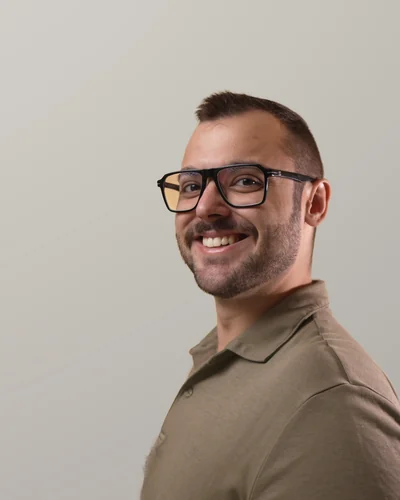
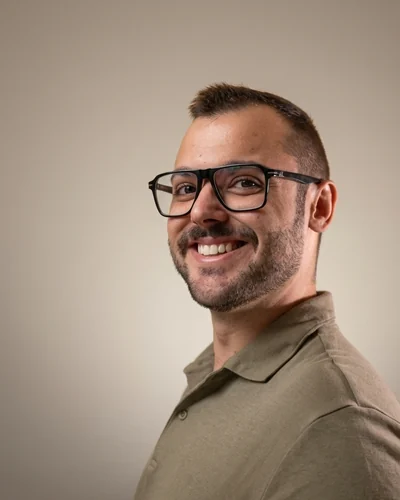
Los retratos que Adrián editó con Gemini
Sustituyen a los de fondo compuesto. Cinco fotos, una por página, con el
mismo criterio de recorte de siempre: eje en la cara detectada y línea de
los ojos a la misma altura en las cinco.

El orden está elegido para que dos páginas seguidas no lleven la misma
ropa ni la misma pose. El fondo varía un poco entre tomas —van de un
beige claro a uno más tostado— y no importa: nunca se ven dos a la vez.
El color de reserva del hueco de la foto se ajusta a ese beige para que
no haya salto mientras carga.

La tarjeta de redes se rehace con la nueva.

Claude-Session: https://claude.ai/code/session_011wHfbJqYP4QLNR9sNwPVRj

diff --git a/privacidad.html b/privacidad.html
@@ -45,7 +45,7 @@
   <link rel="preload" as="font" type="font/woff2" crossorigin
         href="/fuentes/source-sans-3-latin-400-normal.woff2">
 
-  <link rel="stylesheet" href="estilos.css?v=15">
+  <link rel="stylesheet" href="estilos.css?v=16">
   <style>
     /* Las páginas legales se leen, no se escanean: texto algo más
        pequeño, líneas más cortas y títulos de apartado discretos. */

diff --git a/aviso-legal.html b/aviso-legal.html
@@ -50,7 +50,7 @@
   <link rel="preload" as="font" type="font/woff2" crossorigin
         href="/fuentes/source-sans-3-latin-400-normal.woff2">
 
-  <link rel="stylesheet" href="estilos.css?v=15">
+  <link rel="stylesheet" href="estilos.css?v=16">
   <style>
     .legal p, .legal li{font-size:16px;color:var(--ink-2);max-width:66ch}
     .legal h2{font-size:1.18rem;margin-top:32px}

diff --git a/cookies.html b/cookies.html
@@ -48,7 +48,7 @@
   <link rel="preload" as="font" type="font/woff2" crossorigin
         href="/fuentes/source-sans-3-latin-400-normal.woff2">
 
-  <link rel="stylesheet" href="estilos.css?v=15">
+  <link rel="stylesheet" href="estilos.css?v=16">
   <style>
     .legal p, .legal li{font-size:16px;color:var(--ink-2);max-width:66ch}
     .legal h2{font-size:1.18rem;margin-top:32px}

diff --git a/estilos.css b/estilos.css
@@ -961,7 +961,7 @@ a.tarjeta:hover .mas{color:var(--accent-3);text-decoration:underline;text-underl
   box-shadow:var(--shadow);
   /* Fondo por si la imagen tarda: evita el salto de blanco a foto. Es el
      mismo gris del fondo de las fotos, así que ni siquiera se nota. */
-  background:#C7C3BC;
+  background:#A9A194;
 }
 .retrato.grande{width:230px}
 

diff --git a/mapa/index.html b/mapa/index.html
@@ -54,7 +54,7 @@
   <link rel="preload" as="font" type="font/woff2" crossorigin
         href="/fuentes/source-sans-3-latin-400-normal.woff2">
 
-  <link rel="stylesheet" href="../estilos.css?v=15">
+  <link rel="stylesheet" href="../estilos.css?v=16">
 
   <style>
   /* Estilos que solo existen en esta página. Todo lo compartido

diff --git a/areas/ansiedad/index.html b/areas/ansiedad/index.html
@@ -47,7 +47,7 @@
   <link rel="preload" as="font" type="font/woff2" crossorigin
         href="/fuentes/source-sans-3-latin-400-normal.woff2">
 
-  <link rel="stylesheet" href="/estilos.css?v=15">
+  <link rel="stylesheet" href="/estilos.css?v=16">
   <script type="application/ld+json">
 {
   "@context": "https://schema.org",

diff --git a/areas/autoestima/index.html b/areas/autoestima/index.html
@@ -47,7 +47,7 @@
   <link rel="preload" as="font" type="font/woff2" crossorigin
         href="/fuentes/source-sans-3-latin-400-normal.woff2">
 
-  <link rel="stylesheet" href="/estilos.css?v=15">
+  <link rel="stylesheet" href="/estilos.css?v=16">
   <script type="application/ld+json">
 {
   "@context": "https://schema.org",

diff --git a/areas/estado-de-animo/index.html b/areas/estado-de-animo/index.html
@@ -47,7 +47,7 @@
   <link rel="preload" as="font" type="font/woff2" crossorigin
         href="/fuentes/source-sans-3-latin-400-normal.woff2">
 
-  <link rel="stylesheet" href="/estilos.css?v=15">
+  <link rel="stylesheet" href="/estilos.css?v=16">
   <script type="application/ld+json">
 {
   "@context": "https://schema.org",

diff --git a/areas/index.html b/areas/index.html
@@ -47,7 +47,7 @@
   <link rel="preload" as="font" type="font/woff2" crossorigin
         href="/fuentes/source-sans-3-latin-400-normal.woff2">
 
-  <link rel="stylesheet" href="/estilos.css?v=15">
+  <link rel="stylesheet" href="/estilos.css?v=16">
   <script type="application/ld+json">
 {
   "@context": "https://schema.org",

diff --git a/areas/procrastinacion/index.html b/areas/procrastinacion/index.html
@@ -47,7 +47,7 @@
   <link rel="preload" as="font" type="font/woff2" crossorigin
         href="/fuentes/source-sans-3-latin-400-normal.woff2">
 
-  <link rel="stylesheet" href="/estilos.css?v=15">
+  <link rel="stylesheet" href="/estilos.css?v=16">
   <script type="application/ld+json">
 {
   "@context": "https://schema.org",

diff --git a/blog/cuando-dejar-de-hacerlo-solo/index.html b/blog/cuando-dejar-de-hacerlo-solo/index.html
@@ -47,7 +47,7 @@
   <link rel="preload" as="font" type="font/woff2" crossorigin
         href="/fuentes/source-sans-3-latin-400-normal.woff2">
 
-  <link rel="stylesheet" href="/estilos.css?v=15">
+  <link rel="stylesheet" href="/estilos.css?v=16">
   <script type="application/ld+json">
 {
   "@context": "https://schema.org",

diff --git a/blog/cuando-este-listo/index.html b/blog/cuando-este-listo/index.html
@@ -47,7 +47,7 @@
   <link rel="preload" as="font" type="font/woff2" crossorigin
         href="/fuentes/source-sans-3-latin-400-normal.woff2">
 
-  <link rel="stylesheet" href="/estilos.css?v=15">
+  <link rel="stylesheet" href="/estilos.css?v=16">
   <script type="application/ld+json">
 {
   "@context": "https://schema.org",
